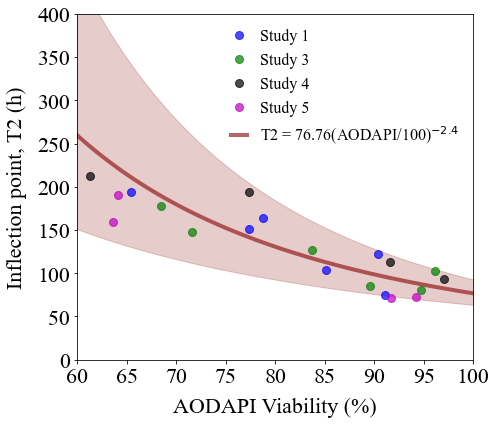
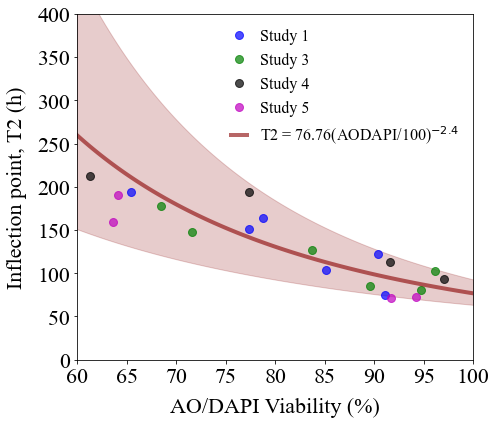
update docs

Changed region(s): [[0.3327, 0.9198, 0.7863, 0.9811]]

diff --git a/docs/AODAPI_T2.rst b/docs/AODAPI_T2.rst
@@ -148,15 +148,80 @@ parameters.**
     
     plt.xticks(size=22)
     plt.yticks(size=22)  
-    plt.xlabel(r'AODAPI Viability (%)',size=22,labelpad=10)
+    plt.xlabel(r'AO/DAPI Viability (%)',size=22,labelpad=10)
     plt.ylabel(r'Inflection point, T2 (h)',size=22,rotation=90,labelpad=10)
     plt.xlim(60,100)
     plt.ylim(0,400)
     plt.legend(frameon=False,prop={'size': 16,'family':'Times New Roman'},markerscale=1.0,handlelength=1.0,loc='upper right')
     plt.tight_layout()
+    
+    plt.savefig('AODAPI_day1.png',dpi=300)
 
 
 
 .. image:: output_12_0.png
+
+
+**AO/DAPI Day 0 viability.**
+
+.. code:: ipython3
+
+    aodapi_T2_d0 = pd.read_csv('AODAPI-T2paired-Day0.csv')
+    
+    column_names = list(aodapi_T2_d0)
+    
+    aodapis_d0, t2s_d0 = {}, {}
+    
+    for c in column_names:
+        if 'T2' in c:
+            t2s_d0[c] = [round(x,2) for x in aodapi_T2_d0[c] if math.isnan(x) == False]
+            print(c,'\t',t2s_d0[c])
+            
+        if 'AODAPI' in c:
+            aodapis_d0[c] = [round(x,2) for x in aodapi_T2_d0[c] if math.isnan(x) == False]
+            print(c,'\t',aodapis_d0[c])
+
+
+.. parsed-literal::
+
+    Study1_AODAPI 	 [96.59, 94.2, 94.84, 93.06, 92.93, 95.44]
+    Study1_T2 	 [74.93, 122.59, 104.11, 164.45, 150.77, 193.53]
+    Study3_AODAPI 	 [97.86, 97.59, 97.94, 97.43, 97.78, 96.09]
+    Study3_T2 	 [102.31, 80.83, 85.02, 126.79, 147.27, 178.04]
+    Study4_AODAPI 	 [97.37, 96.14, 93.89, 93.66]
+    Study4_T2 	 [93.02, 113.0, 193.43, 212.21]
+    Study5_AODAPI 	 [95.8, 92.53, 95.82, 94.37]
+    Study5_T2 	 [71.64, 72.14, 159.66, 190.13]
+
+
+.. code:: ipython3
+
+    studies = ['Study1','Study3','Study4','Study5']
+    
+    fig, axs = plt.subplots(figsize=(7,6))
+    
+    rcParams['font.family'] = 'sans-serif'
+    rcParams['font.sans-serif'] = ['Times New Roman']
+    
+    color_list = {'Study1':'blue','Study3':'green','Study4':'black','Study5':'m'}
+    
+    for s in studies:
+        labelname = s.replace('Study','Study ')
+        plt.plot(aodapis_d0[s+'_AODAPI'],t2s_d0[s+'_T2'],marker='o',ms=8,color=color_list[s],alpha=0.7,linewidth=0,label=labelname)
+    
+    plt.xticks(size=22)
+    plt.yticks(size=22)  
+    plt.xlabel(r'AO/DAPI Viability (%)',size=22,labelpad=10)
+    plt.ylabel(r'Inflection point, T2 (h)',size=22,rotation=90,labelpad=10)
+    plt.xlim(60,100)
+    plt.ylim(0,400)
+    plt.legend(frameon=False,prop={'size': 16,'family':'Times New Roman'},markerscale=1.0,handlelength=1.0,loc='upper left')
+    plt.tight_layout()
+    
+    plt.savefig('AODAPI_day0.png',dpi=300)
+
+
+
+.. image:: output_15_0.png
 
 
